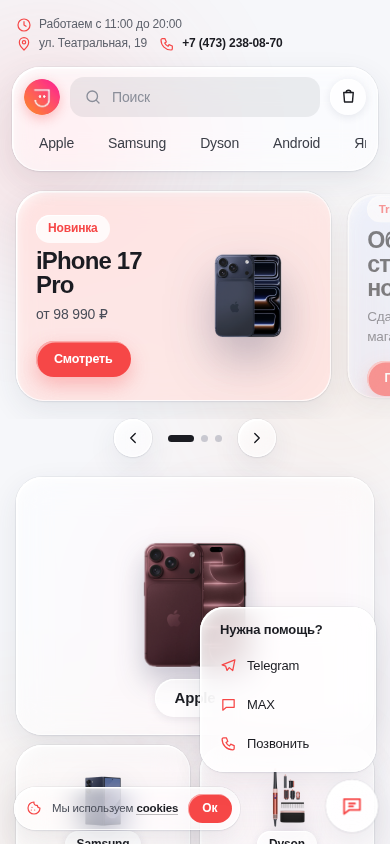
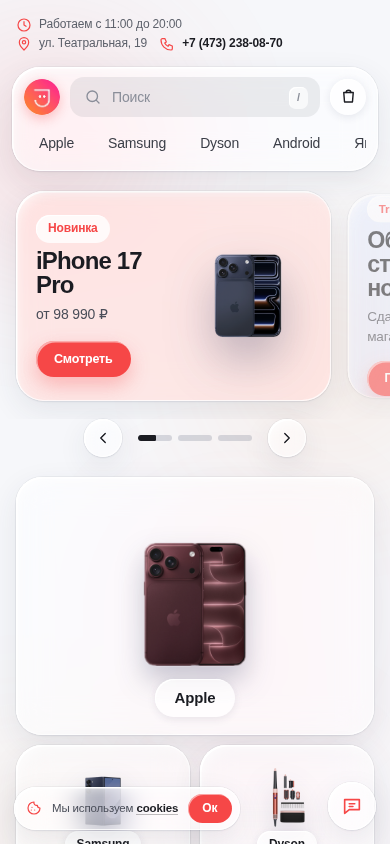
UX polish: reveal motion, sliding menu highlight, condensing header, story dots, mini cart bar, search suggestions
Claude-Session: https://claude.ai/code/session_0163ZjdM2uxMpsZRiagcJtBK

diff --git a/assets/script.js b/assets/script.js
@@ -54,16 +54,27 @@
       const c = box.scrollLeft + box.clientWidth / 2;
       let best = 0, d = 1e9;
       slides.forEach((s, i) => { const m = Math.abs(s.offsetLeft - box.offsetLeft + s.clientWidth / 2 - c); if (m < d) { d = m; best = i; } });
-      cur = best; ds.forEach((x, i) => x.classList.toggle('on', i === best)); slides.forEach((s, i) => s.classList.toggle('active', i === best));
+      cur = best; slides.forEach((s, i) => s.classList.toggle('active', i === best));
     };
     box.addEventListener('scroll', mark, { passive: true });
     ds.forEach((x, i) => x.onclick = () => { go(i); play(); });
     $('#hPrev').onclick = () => { go(cur - 1); play(); };
     $('#hNext').onclick = () => { go(cur + 1); play(); };
-    const play = () => { clearInterval(timer); timer = setInterval(() => go(cur + 1), 6000); };
-    ['pointerenter', 'touchstart'].forEach(ev => box.addEventListener(ev, () => clearInterval(timer), { passive: true }));
+    const DUR = 6000;
+    const play = () => { clearTimeout(timer); box.classList.remove('paused'); timer = setTimeout(() => go(cur + 1), DUR); };
+    const stop = () => { clearTimeout(timer); box.classList.add('paused'); };
+    ['pointerenter', 'touchstart'].forEach(ev => box.addEventListener(ev, stop, { passive: true }));
     ['pointerleave', 'touchend'].forEach(ev => box.addEventListener(ev, play, { passive: true }));
-    mark(); play();
+    let last = -1;
+    const onChange = () => { if (cur !== last) { last = cur; ds.forEach(x => { x.classList.remove('on'); }); void dots.offsetWidth; ds[cur].classList.add('on'); if (!box.classList.contains('paused')) play(); } };
+    box.addEventListener('scroll', () => requestAnimationFrame(onChange), { passive: true });
+    /* subtle parallax on the banner photo */
+    if (matchMedia('(hover:hover) and (pointer:fine)').matches) slides.forEach(s => {
+      const im = s.querySelector('img');
+      s.addEventListener('pointermove', e => { const r = s.getBoundingClientRect(); im.style.translate = `${((e.clientX - r.left) / r.width - .5) * -18}px ${((e.clientY - r.top) / r.height - .5) * -12}px`; });
+      s.addEventListener('pointerleave', () => { im.style.translate = ''; });
+    });
+    mark(); onChange(); play();
   })();
 
   /* Cart: { id: qty } */
@@ -88,7 +99,7 @@
       s.innerHTML = n ? stepper(id) : `<button class="buy" data-act="inc" data-id="${id}">В корзину</button>`;
     });
   }
-  function renderCart() {
+  let renderCart = function () {
     const ids = Object.keys(cart).map(Number).filter(id => byId(id));
     const qty = totalQty(), box = $('#cartItems');
     $('#cartModal').classList.toggle('is-empty', !ids.length);
@@ -109,7 +120,7 @@
     $('#cartMeta').textContent = qty ? `${qty} ${plural(qty, 'товар', 'товара', 'товаров')}` : '';
     const c = $('#cartCount'); c.textContent = qty; c.classList.toggle('on', qty > 0);
     syncCards();
-  }
+  };
   function bump() { const c = $('#cartCount'); c.classList.remove('bump'); void c.offsetWidth; c.classList.add('bump'); }
 
   const modal = $('#cartModal');
@@ -152,6 +163,61 @@
       g.style.setProperty('--mx', (e.clientX - r.left) + 'px'); g.style.setProperty('--my', (e.clientY - r.top) + 'px');
     }, { passive: true });
   }
+
+
+  /* ---------- UX polish ---------- */
+  /* reveal on scroll */
+  (function () {
+    const els = [...document.querySelectorAll('[data-reveal], .wall .tile')];
+    document.querySelectorAll('.wall .tile').forEach((t, i) => { t.dataset.reveal = ''; t.style.setProperty('--d', (i % 6) * 45 + 'ms'); });
+    if (!('IntersectionObserver' in window)) { document.documentElement.classList.remove('js'); return; }
+    const io = new IntersectionObserver(es => es.forEach(e => { if (e.isIntersecting) { e.target.classList.add('in'); io.unobserve(e.target); } }), { threshold: .08, rootMargin: '0px 0px -4% 0px' });
+    document.querySelectorAll('[data-reveal]').forEach(el => io.observe(el));
+  })();
+
+  /* sliding highlight under the brand menu (segmented-control feel) */
+  (function () {
+    const nav = $('.brands'); if (!nav || !matchMedia('(hover:hover)').matches) return;
+    const ind = document.createElement('i'); ind.className = 'ind'; nav.prepend(ind);
+    nav.querySelectorAll('a').forEach(a => {
+      a.addEventListener('pointerenter', () => { ind.style.cssText = `opacity:1;width:${a.offsetWidth}px;height:${a.offsetHeight}px;transform:translate(${a.offsetLeft}px,${a.offsetTop}px)`; });
+    });
+    nav.addEventListener('pointerleave', () => { ind.style.opacity = 0; });
+  })();
+
+  /* header condenses on scroll down, expands on scroll up */
+  (function () {
+    const head = $('#head'); let y = scrollY, ticking = false;
+    addEventListener('scroll', () => {
+      if (ticking) return; ticking = true;
+      requestAnimationFrame(() => {
+        const ny = scrollY, dy = ny - y;
+        if (ny < 120) head.classList.remove('compact'); else if (dy > 6) head.classList.add('compact'); else if (dy < -6) head.classList.remove('compact');
+        y = ny; ticking = false;
+      });
+    }, { passive: true });
+  })();
+
+  /* mini cart bar */
+  const mini = $('#miniCart');
+  function syncMini() {
+    const q = totalQty(); mini.classList.toggle('on', q > 0 && !modal.classList.contains('on'));
+    $('#mcQty').textContent = q; $('#mcSum').textContent = fmt(totalSum());
+    $('#mcLabel').textContent = `${q} ${plural(q, 'товар', 'товара', 'товаров')}`;
+  }
+  mini.onclick = openCart;
+  const _render = renderCart; renderCart = function () { _render(); syncMini(); };
+  new MutationObserver(syncMini).observe(modal, { attributes: true, attributeFilter: ['class'] });
+  syncMini();
+
+  /* search: "/" focuses, suggestions on empty focus */
+  (function () {
+    const sugg = ['iPhone 17', 'AirPods', 'PlayStation', 'iPhone 15'];
+    const show = () => { if (input.value.trim()) return; res.innerHTML = '<div class="sugg"><small>Популярные запросы</small>' + sugg.map(s => `<button type="button" data-q="${s}">${s}</button>`).join('') + '</div>'; res.classList.add('on'); };
+    input.addEventListener('focus', show);
+    res.addEventListener('click', e => { const b = e.target.closest('[data-q]'); if (!b) return; input.value = b.dataset.q; input.dispatchEvent(new Event('input')); input.focus(); });
+    document.addEventListener('keydown', e => { if (e.key === '/' && !/INPUT|TEXTAREA/.test(document.activeElement.tagName)) { e.preventDefault(); input.focus(); } });
+  })();
 
   /* cookie notice (remembered) */
   (function () {

diff --git a/assets/style.css b/assets/style.css
@@ -387,3 +387,65 @@ a.info-b:hover{transform:translateX(3px);background:rgba(255,255,255,.95)}
 }
 .ci .step,.ci-row{flex:none}.ci-row{flex:0 0 auto;width:100%}
 .ci-main{flex:1}
+
+/* =============== polish pass: motion, UX, details =============== */
+:focus-visible{outline:2px solid var(--accent);outline-offset:2px;border-radius:12px}
+input:focus-visible{outline:none}
+
+/* reveal on scroll (individual `translate` so it never fights hover transforms) */
+.js [data-reveal]{opacity:0;translate:0 22px;transition:opacity .8s var(--ease) var(--d,0ms),translate .8s var(--ease) var(--d,0ms)}
+.js [data-reveal].in{opacity:1;translate:0 0}
+@media(prefers-reduced-motion:reduce){.js [data-reveal]{opacity:1;translate:none}}
+
+/* header: collapses the brand row while scrolling down */
+.head .bar{transition:padding .4s var(--ease),box-shadow .4s}
+.brands{position:relative;max-height:48px;transition:max-height .45s var(--ease),opacity .3s,padding .3s}
+.head.compact .brands{max-height:0;opacity:0;padding-top:0;padding-bottom:0;pointer-events:none}
+.head.compact .head-row{padding-bottom:2px}
+.brands>a{position:relative;z-index:1}
+.brands .ind{position:absolute;left:0;top:0;z-index:0;border-radius:99px;background:rgba(255,255,255,.95);opacity:0;pointer-events:none;
+  box-shadow:inset 1px 1px 0 #fff,0 2px 10px rgba(40,50,80,.14);transition:transform .45s var(--ease),width .45s var(--ease),height .45s var(--ease),opacity .25s}
+.brands a:hover{background:none;box-shadow:none;color:var(--accent)}
+
+/* search extras */
+.search .k{position:absolute;right:12px;top:10px;font:inherit;font-size:11px;font-weight:600;color:#8a8e99;padding:3px 8px;border-radius:7px;background:rgba(255,255,255,.7);box-shadow:inset 1px 1px 0 #fff;pointer-events:none;transition:opacity .2s}
+.search:focus-within .k,.search input:not(:placeholder-shown)~.k{opacity:0}
+@media(hover:none){.search .k{display:none}}
+.sugg{padding:10px 10px 12px;display:flex;flex-wrap:wrap;gap:8px}
+.sugg small{flex:0 0 100%;font-size:11.5px;color:var(--muted);padding:0 4px}
+.sugg button{padding:7px 14px;border-radius:99px;font-size:13px;font-weight:500;background:rgba(255,255,255,.9);box-shadow:inset 1px 1px 0 #fff,0 1px 4px rgba(40,50,80,.12);transition:.25s var(--ease)}
+.sugg button:hover{background:var(--accent);color:#fff;transform:translateY(-1px)}
+
+/* hero: progress dots (story-style) */
+.dots{gap:6px}
+.dots button{position:relative;width:34px;height:6px;overflow:hidden;background:rgba(40,50,80,.16)}
+.dots button.on{width:34px;background:rgba(40,50,80,.16)}
+.dots button::after{content:"";position:absolute;inset:0;border-radius:inherit;background:var(--text);transform:scaleX(0);transform-origin:left}
+.dots button.on::after{animation:fill 6s linear forwards}
+.slides.paused~.hero-ui .dots button.on::after{animation-play-state:paused}
+@keyframes fill{to{transform:scaleX(1)}}
+.slide img{transition:transform .7s var(--ease),translate .25s ease-out}
+
+/* section head */
+.sec-head{display:flex;align-items:center;justify-content:space-between;gap:12px;margin-bottom:16px}
+.sec-head .sec-title{margin:0}
+.sec-all{display:inline-flex;align-items:center;gap:2px;font-size:13px;font-weight:600;color:var(--accent);padding:7px 8px 7px 14px;border-radius:99px;transition:background .25s}
+.sec-all svg{font-size:16px;transition:transform .3s var(--ease)}
+.sec-all:hover{background:rgba(246,71,71,.1)}.sec-all:hover svg{transform:translateX(3px)}
+
+/* tiles & cards: crisper depth */
+.tile{will-change:transform}
+.tile:active,.promo:active,.scroller .card:active{transform:scale(.985)}
+
+/* mini cart bar */
+.minicart{position:fixed;left:50%;bottom:calc(16px + env(safe-area-inset-bottom));z-index:55;display:flex;align-items:center;gap:14px;padding:8px 8px 8px 10px;border-radius:99px;
+  translate:-50% 140%;opacity:0;pointer-events:none;transition:translate .6s var(--ease),opacity .3s,transform .3s var(--ease);background:rgba(255,255,255,.72)}
+.minicart.on{translate:-50% 0;opacity:1;pointer-events:auto}
+.minicart:hover{transform:translateY(-3px)}.minicart:active{transform:scale(.97)}
+.mc-ico{position:relative;width:42px;height:42px;border-radius:50%;display:grid;place-items:center;font-size:21px;color:#fff;background:var(--accent);box-shadow:inset 1.5px 1.5px 0 rgba(255,255,255,.55),0 6px 14px rgba(246,71,71,.35)}
+.mc-ico i{position:absolute;top:-4px;right:-4px;min-width:19px;height:19px;padding:0 5px;border-radius:99px;background:var(--text);color:#fff;font-style:normal;font-size:10.5px;font-weight:700;line-height:19px;text-align:center}
+.mc-text{display:flex;flex-direction:column;align-items:flex-start;line-height:1.2;text-align:left}
+.mc-text b{font-size:15px;font-weight:700;letter-spacing:-.02em}.mc-text small{font-size:11.5px;color:var(--muted)}
+.mc-go{display:inline-flex;align-items:center;gap:2px;padding:10px 14px 10px 18px;border-radius:99px;font-size:13px;font-weight:600;background:rgba(246,71,71,.1);color:var(--accent)}
+.mc-go svg{font-size:16px}
+@media(max-width:760px){.minicart{bottom:calc(72px + env(safe-area-inset-bottom));gap:10px}.mc-go{padding-left:14px}}

diff --git a/index.html b/index.html
@@ -2,6 +2,7 @@
 <html lang="ru">
 <head>
 <meta charset="UTF-8">
+<script>document.documentElement.classList.add("js")</script>
 <meta name="color-scheme" content="light">
 <meta name="viewport" content="width=device-width, initial-scale=1, viewport-fit=cover">
 <title>JJstore — оригинальная техника в Воронеже</title>
@@ -28,7 +29,7 @@
   <div class="head-row">
     <a href="#" class="logo"><img src="assets/brand/logo.png" alt="JJstore"><span>JJstore</span></a>
     <div class="search glass">
-      <input id="search" type="search" placeholder="Поиск" autocomplete="off">
+      <input id="search" type="search" placeholder="Поиск" autocomplete="off" aria-label="Поиск"><kbd class="k">/</kbd>
       <svg viewBox="0 0 24 24"><circle cx="11" cy="11" r="7"/><path d="m20 20-3.5-3.5"/></svg>
       <div class="results" id="results"></div>
     </div>
@@ -57,7 +58,7 @@
 
 <main class="wrap">
 
-  <section class="hero" aria-label="Новинки и предложения">
+  <section class="hero" data-reveal aria-label="Новинки и предложения">
     <div class="slides" id="slides">
       <a class="slide glass s-red" href="https://jjstore.ru/apple/iphone/iphone-17-pro-1" target="_blank" rel="noopener">
         <div class="s-text"><span class="s-tag">Новинка</span><h2>iPhone 17 Pro</h2><p>от 98 990 ₽</p><span class="s-btn">Смотреть</span></div>
@@ -103,7 +104,7 @@
     <a class="tile glass" href="https://jjstore.ru/uslugi" target="_blank" rel="noopener"><img src="assets/cat/uslugi.png" alt="Услуги" loading="lazy"><span>Услуги</span></a>
   </section>
 
-  <section class="row" aria-label="Предложения">
+  <section class="row" data-reveal aria-label="Предложения">
     <div class="scroller"><div class="track promos">
       <a class="promo glass" href="https://jjstore.ru/baraholka" target="_blank" rel="noopener"><span class="p-ico"><svg viewBox="0 0 24 24"><circle cx="12" cy="12" r="9"/><path d="M9.500 9.500a2.500 2.500 0 1 1 3.500 2.300c-.7.400-1 .9-1 1.700M12 17h.01"/></svg></span><h3>Почему дёшево?</h3><p>Как мы держим цены</p><span class="p-go"><svg viewBox="0 0 24 24"><path d="m9 6 6 6-6 6"/></svg></span></a>
       <a class="promo glass" href="https://jjstore.ru/trade-in" target="_blank" rel="noopener"><span class="p-ico"><svg viewBox="0 0 24 24"><path d="M20 12a8 8 0 1 1-3-6.200"/><path d="M20 4v5h-5"/></svg></span><h3>Trade-in</h3><p>Обмен старого устройства</p><span class="p-go"><svg viewBox="0 0 24 24"><path d="m9 6 6 6-6 6"/></svg></span></a>
@@ -113,8 +114,8 @@
     </div></div>
   </section>
 
-  <section class="row products">
-    <h2 class="sec-title"><i class="dot"></i>Новинки</h2>
+  <section class="row products" data-reveal>
+    <div class="sec-head"><h2 class="sec-title"><i class="dot"></i>Новинки</h2><a class="sec-all" href="https://jjstore.ru/apple/iphone" target="_blank" rel="noopener">Все<svg viewBox="0 0 24 24"><path d="m9 6 6 6-6 6"/></svg></a></div>
     <div class="scroller">
       <button class="arrow prev" aria-label="Назад"><svg viewBox="0 0 24 24"><path d="m15 6-6 6 6 6"/></svg></button>
       <div class="track" id="trackNew"></div>
@@ -122,8 +123,8 @@
     </div>
   </section>
 
-  <section class="row products">
-    <h2 class="sec-title"><i class="dot"></i>Популярное</h2>
+  <section class="row products" data-reveal>
+    <div class="sec-head"><h2 class="sec-title"><i class="dot"></i>Популярное</h2><a class="sec-all" href="https://jjstore.ru/apple" target="_blank" rel="noopener">Все<svg viewBox="0 0 24 24"><path d="m9 6 6 6-6 6"/></svg></a></div>
     <div class="scroller">
       <button class="arrow prev" aria-label="Назад"><svg viewBox="0 0 24 24"><path d="m15 6-6 6 6 6"/></svg></button>
       <div class="track" id="trackPop"></div>
@@ -193,6 +194,13 @@
     <svg viewBox="0 0 24 24"><path d="M4 5h16v11H9l-5 4V5Z"/><path d="M9 9.500h6M9 12.500h4"/></svg>
   </button>
 </div>
+
+<!-- Mini cart bar -->
+<button class="minicart glass" id="miniCart" aria-label="Открыть корзину">
+  <span class="mc-ico"><svg viewBox="0 0 24 24"><path d="M6 7h12l-1 12H7L6 7Z"/><path d="M9 7a3 3 0 0 1 6 0"/></svg><i id="mcQty">0</i></span>
+  <span class="mc-text"><b id="mcSum">0 ₽</b><small id="mcLabel">в корзине</small></span>
+  <span class="mc-go">Открыть<svg viewBox="0 0 24 24"><path d="m9 6 6 6-6 6"/></svg></span>
+</button>
 
 <div class="modal" id="cartModal" aria-hidden="true">
   <div class="modal-scrim" data-close></div>
